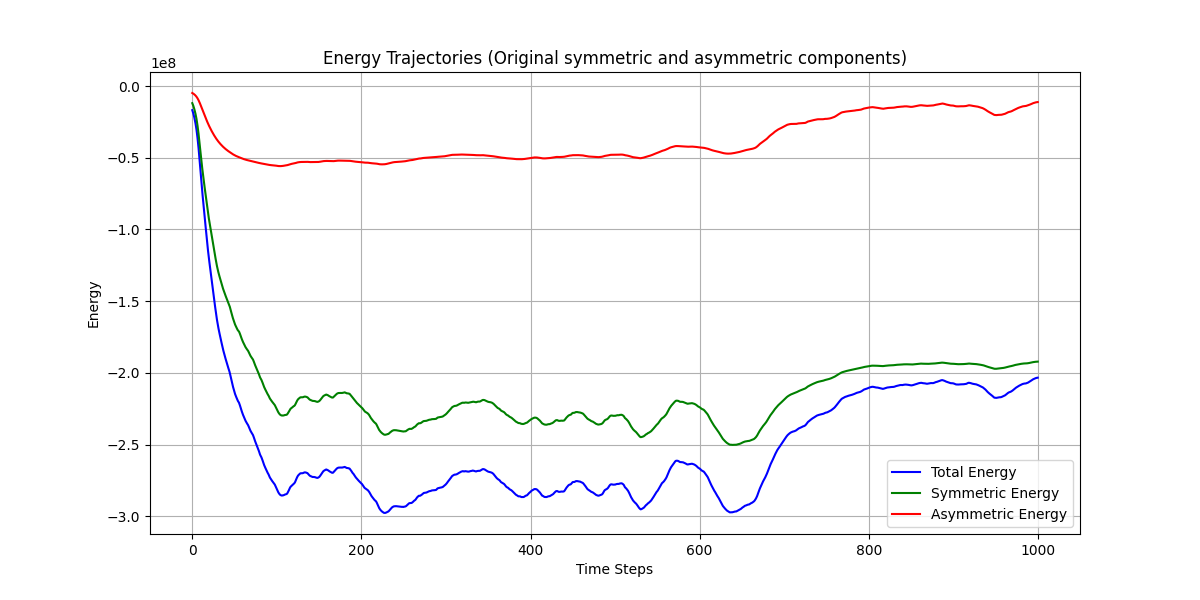
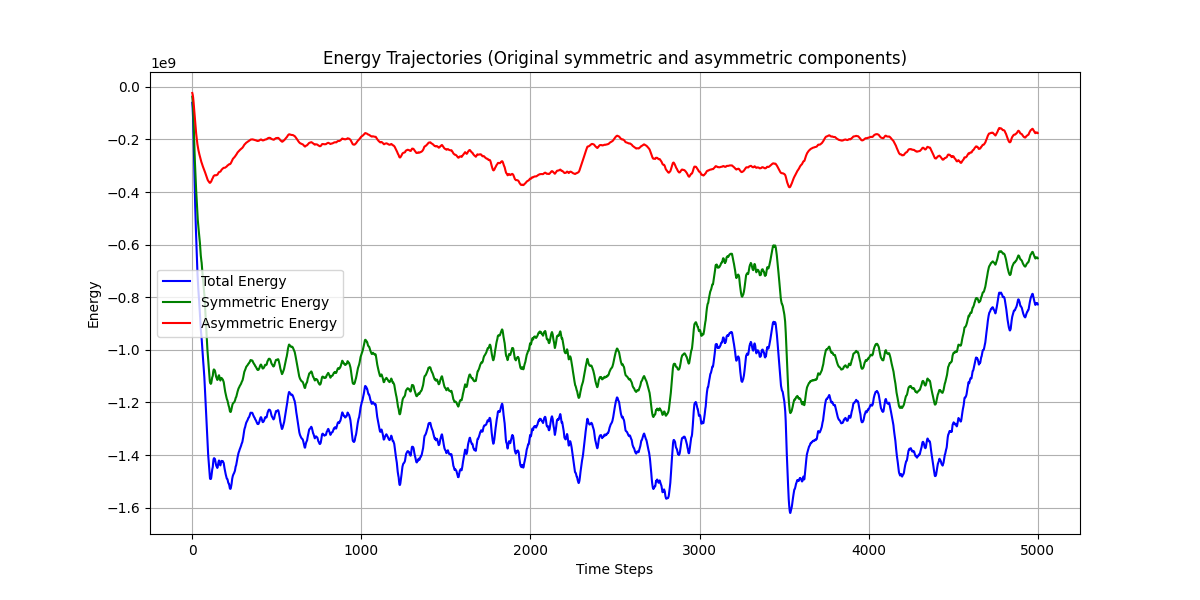
params

diff --git a/src/parameters.py b/src/parameters.py
@@ -55,7 +55,7 @@ apply_er_to_asymmetric = False  # Apply Erdős-Rényi to asymmetric component
 # Time and integration parameters
 tau = 20.0              # Time constant for neural dynamics
 t_start = 0.0           # Simulation start time
-t_end = 1000.0           # Simulation end time
+t_end = 5000.0           # Simulation end time
 dt = 0.2                # Time step for simulation output (increased for efficiency)
 
 # Performance optimization
